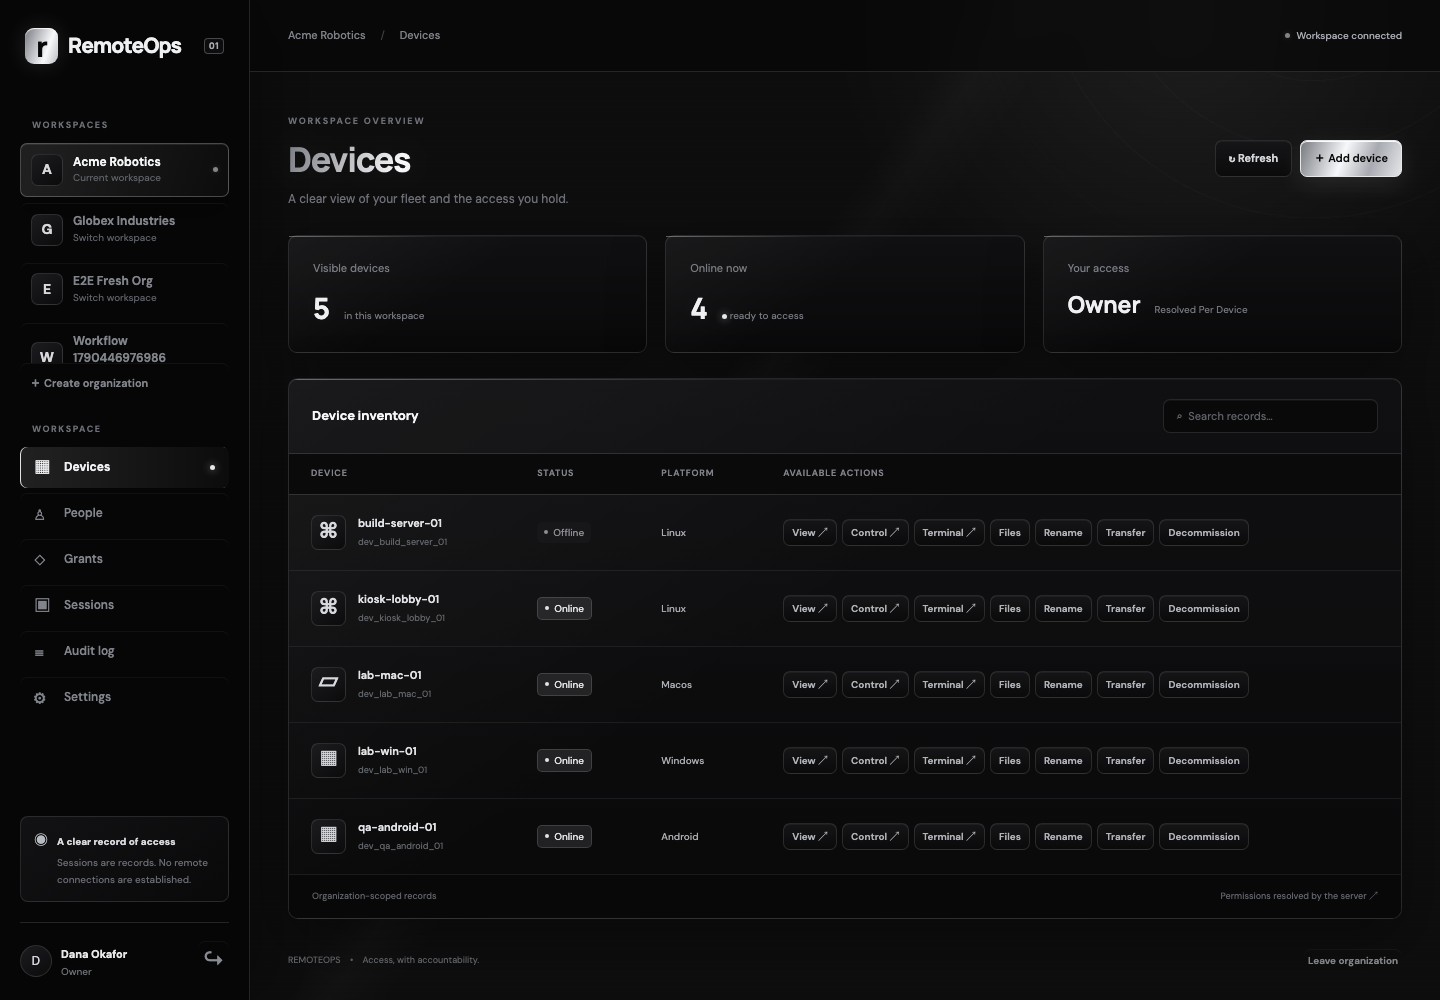
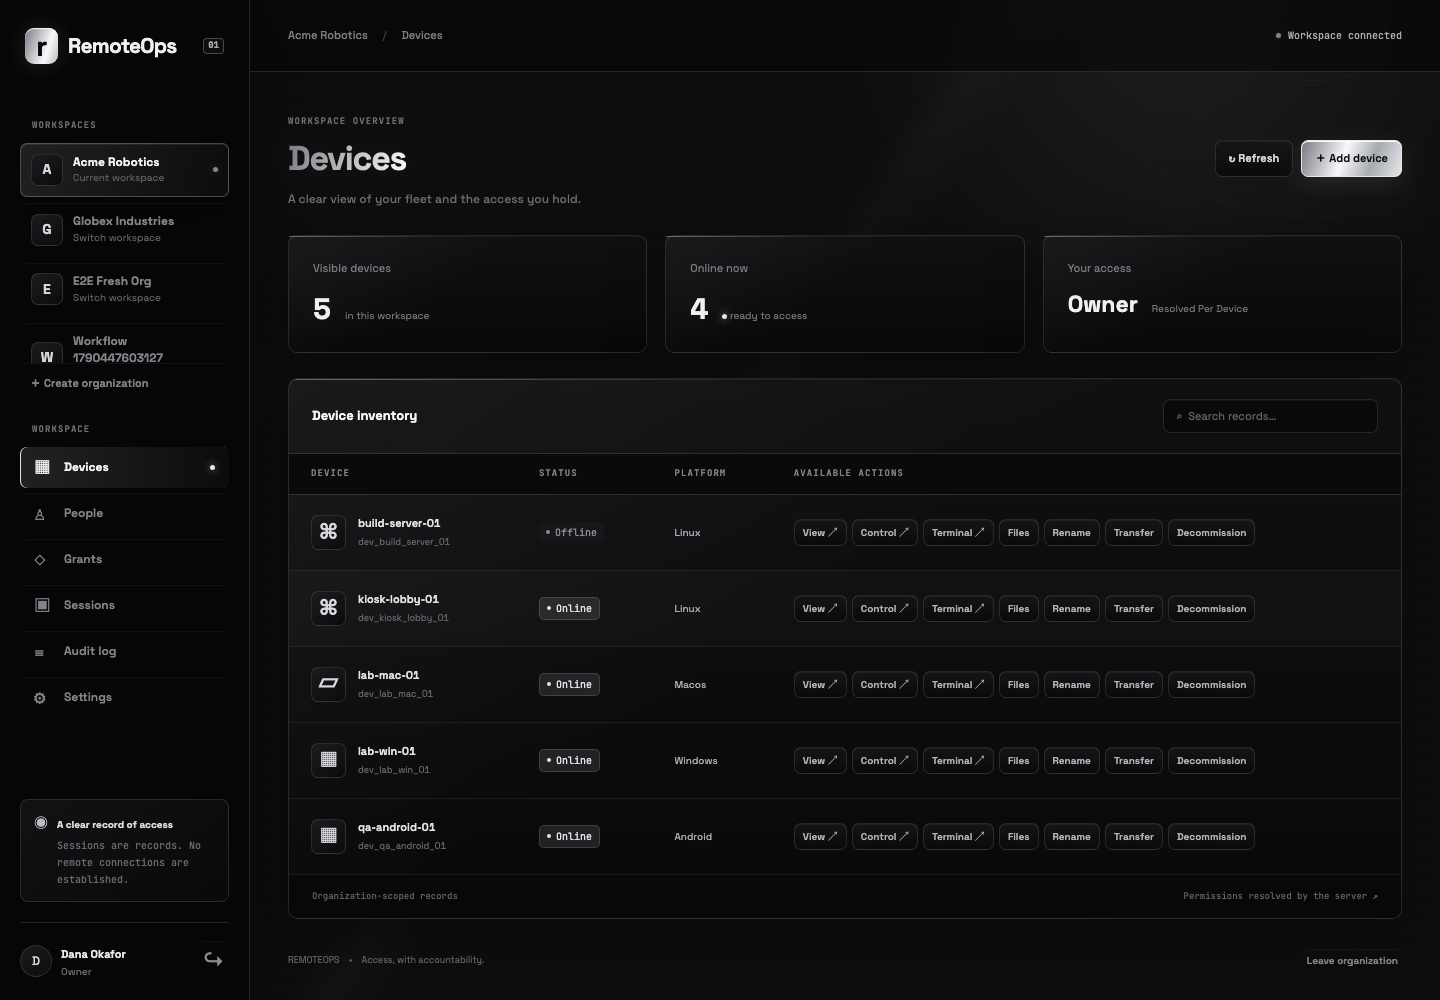
style: adopt operations-focused typography

diff --git a/starter/web/style.css b/starter/web/style.css
@@ -1,5 +1,5 @@
 :root {
-  font-family: "DM Sans Variable", sans-serif;
+  font-family: "Space Grotesk Variable", sans-serif;
   color: #253138;
   font-synthesis: none;
   font-size: 14px;
@@ -55,7 +55,7 @@ h1,
 h2,
 h3,
 .brand {
-  font-family: "Manrope Variable", sans-serif;
+  font-family: "Space Grotesk Variable", sans-serif;
 }
 h1 {
   letter-spacing: -1.25px;
@@ -150,7 +150,7 @@ a {
   color: #fff;
   font-size: 28px;
   font-weight: 800;
-  font-family: "Manrope Variable", sans-serif;
+  font-family: "Space Grotesk Variable", sans-serif;
   line-height: 1;
 }
 .version {
@@ -434,13 +434,13 @@ nav button.active {
   display: flex;
   align-items: baseline;
   gap: 14px;
-  font-family: "Manrope Variable", sans-serif;
+  font-family: "Space Grotesk Variable", sans-serif;
   font-size: 29px;
   color: #294238;
   margin-top: 9px;
 }
 .stats small {
-  font-family: "DM Sans Variable", sans-serif;
+  font-family: "Space Grotesk Variable", sans-serif;
   font-size: 10px;
   font-weight: 400;
   color: #93a09a;
@@ -1060,6 +1060,8 @@ dialog h2 {
   color-scheme: dark;
   color: #d6d8dc;
   background: #030303;
+  --font-interface: "Space Grotesk Variable", sans-serif;
+  --font-telemetry: "JetBrains Mono Variable", monospace;
   --black-0: #020202;
   --black-1: #070707;
   --black-2: #0c0c0d;
@@ -1080,6 +1082,7 @@ dialog h2 {
 }
 
 body {
+  font-family: var(--font-interface);
   background:
     radial-gradient(
       circle at 78% 12%,
@@ -1134,6 +1137,33 @@ small,
 .workspace-label,
 .eyebrow {
   color: var(--silver-3);
+}
+
+.workspace-label,
+.eyebrow,
+.version,
+.status-pill,
+.badge,
+th,
+.mock-label,
+.permission-list small,
+.record-note small,
+.table-footer {
+  font-family: var(--font-telemetry);
+  font-variant-numeric: tabular-nums;
+}
+
+.workspace-label,
+.eyebrow,
+th {
+  letter-spacing: 0.12em;
+}
+
+.stats strong,
+td,
+input,
+select {
+  font-variant-numeric: tabular-nums;
 }
 
 button,

diff --git a/starter/web/main.jsx b/starter/web/main.jsx
@@ -1,5 +1,5 @@
-import "@fontsource-variable/dm-sans";
-import "@fontsource-variable/manrope";
+import "@fontsource-variable/space-grotesk";
+import "@fontsource-variable/jetbrains-mono";
 import React from "react";
 import { createRoot } from "react-dom/client";
 import App from "./App";

diff --git a/DECISIONS.md b/DECISIONS.md
@@ -76,3 +76,10 @@
 - **Why:** Radar rotation, signal sweeps, and grid drift reinforce the live operations context without changing application state or competing with tables and controls.
 - **Rejected:** Canvas particles and looping video. Both add runtime and asset weight, and their continuous high-detail movement would distract from operational data.
 - **Reconsider if:** A future brand motion specification calls for authored assets and includes performance and accessibility targets.
+
+## Separate interface type from telemetry type
+- **Choice:** Use Space Grotesk for general interface text and JetBrains Mono only for compact operational metadata, with both fonts bundled locally through Fontsource.
+- **Why:** Space Grotesk gives the monochrome console a more technical shape while remaining readable in forms and tables. Monospaced metadata makes statuses, identifiers, timestamps, and numeric values easier to scan without making long-form UI copy feel dense.
+- **Rejected:** A monospaced font across the whole application, which reduces readability; keeping DM Sans and Manrope, whose softer editorial character did not reinforce the remote-operations purpose as clearly.
+- **Reconsider if:** User testing shows the geometric letterforms or compact telemetry labels reduce readability at small sizes.
+- **Sources:** https://fontsource.org/fonts/space-grotesk and https://fontsource.org/fonts/jetbrains-mono (font files and package metadata).

diff --git a/BUILD-LOG.md b/BUILD-LOG.md
@@ -47,3 +47,8 @@ This is the contemporaneous implementation record. Entries describe observed wor
 - Added slow, CSS-only background motion that supports the remote-operations setting: a rotating telemetry field, diagonal signal sweep, drifting grid, and login orbit. Every layer ignores pointer input and remains behind the application surfaces.
 - Added a complete reduced-motion override that stops the new ambient effects along with the existing status and logo animations when the operating system requests less motion.
 - Production build and formatting checks pass. All 31 browser tests pass in 22.5 seconds; the test-generated dashboard screenshot was refreshed with the animated theme in its resting state.
+
+## Phase 6 — Operations-focused typography (2026-09-27)
+- Replaced DM Sans and Manrope with locally bundled Space Grotesk and JetBrains Mono. Space Grotesk now carries the readable interface hierarchy; JetBrains Mono is limited to telemetry-style metadata such as statuses, table headings, version labels, and permission details.
+- The first browser run passed 30 checks and exposed a transient notice-timing failure in the device workflow. That workflow passed in isolation, followed by a clean full run of all 31 browser tests in 19.4 seconds.
+- Production build and formatting checks pass. The refreshed font bundle adds no network dependency at runtime, and the dashboard screenshot was regenerated from the final browser run.
